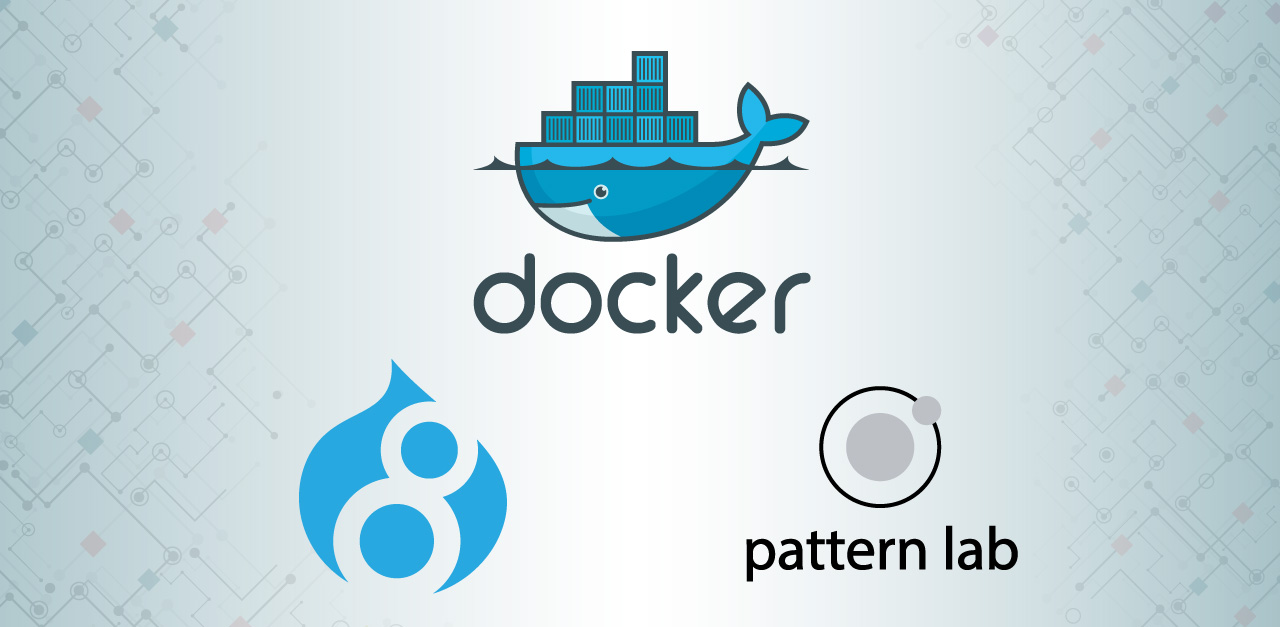
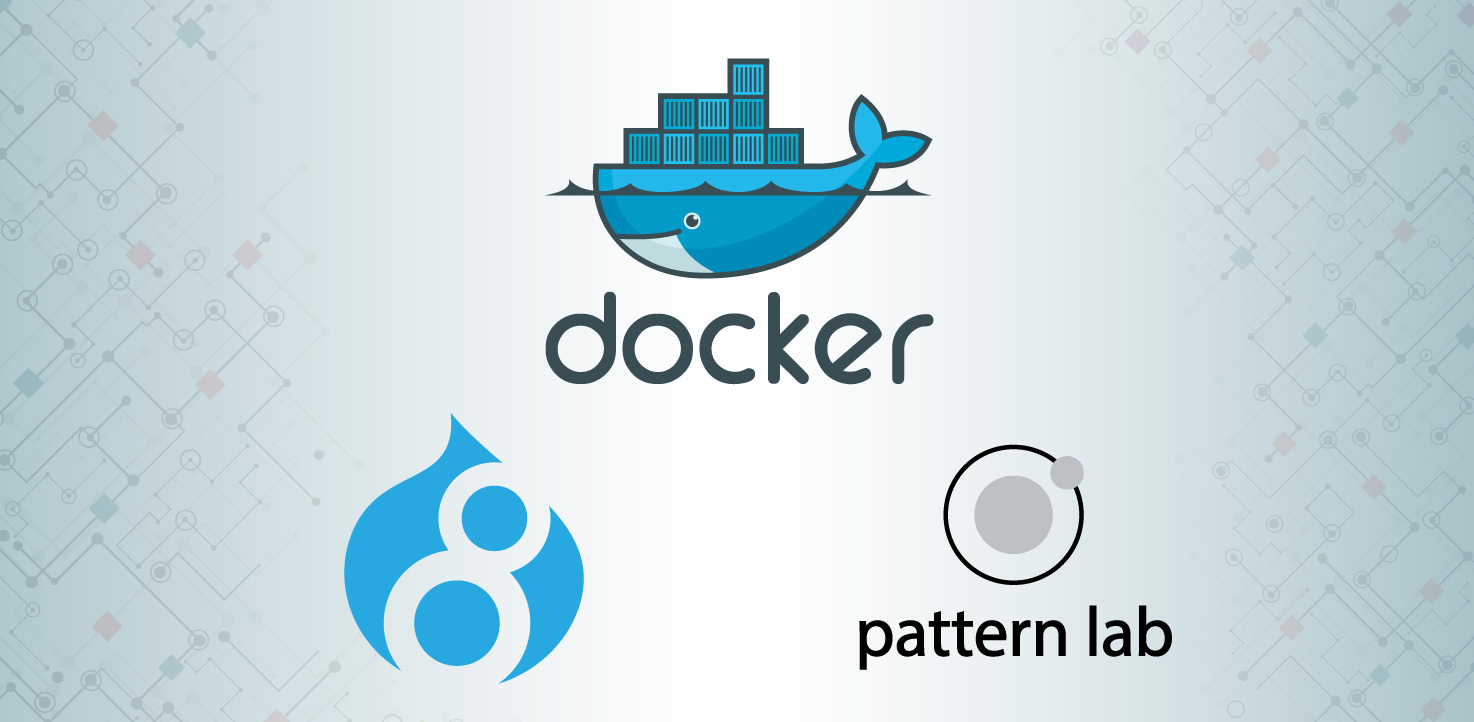
Issue #2677: Scale blog post image width to 1474px
And update dimensions in front matter.

Changed region(s): [[0.5938, 0.8485, 0.7812, 0.9091], [0.4688, 0.0606, 0.5625, 0.2424], [0.4062, 0.2121, 0.4688, 0.2424]]

diff --git a/_posts/2017-01-30-docker-frontend-tools.md b/_posts/2017-01-30-docker-frontend-tools.md
@@ -7,8 +7,8 @@ tags: drupal drupal-planet docker pattern-lab front-end-dev drupal8
 summary: This post demonstrates how to build a Docker image that can be used in local Drupal development with the Pattern Lab Starter theme and/or with other common front-end applications such as npm, Gulp, and Bower.
 featured_image: "/blog/docker-drupal-pattern-lab.jpg"
 featured_image_alt: "Docker front-end tools"
-featured_image_height: "627px"
-featured_image_width: "1280px"
+featured_image_height: "722px"
+featured_image_width: "1474px"
 drupal_planet_summary: |
   This post demonstrates how to build a Docker image that can be used in local Drupal development with the Pattern Lab Starter theme and/or with other common front-end applications such as npm, Gulp, and Bower.
 ---
